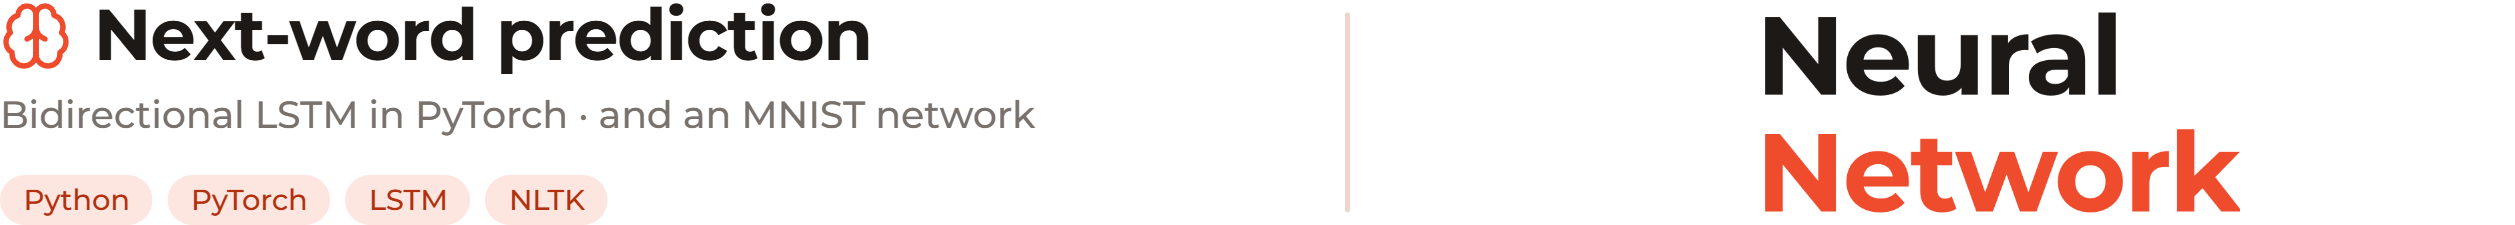
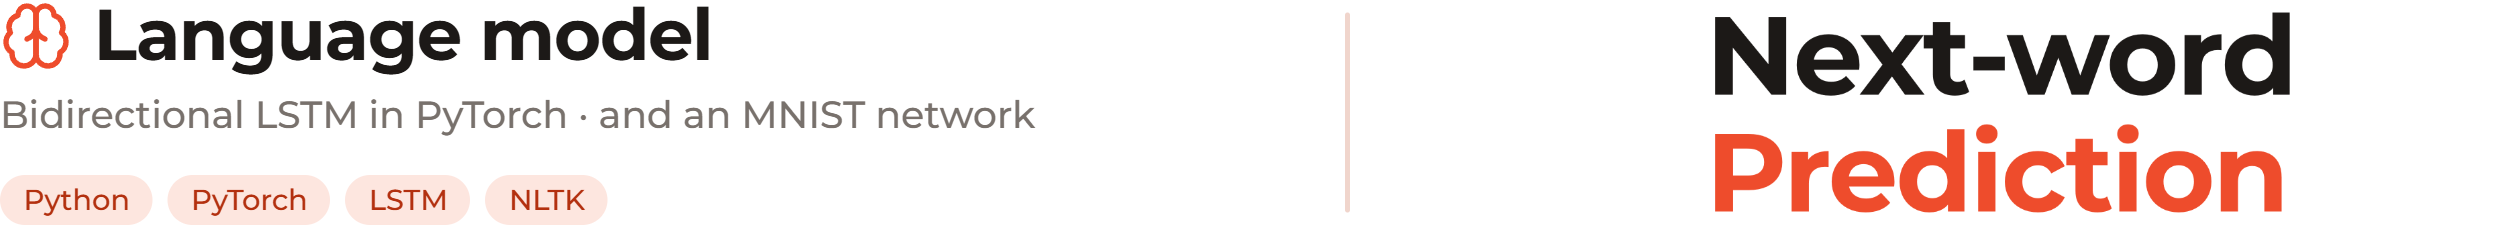
chore: rename the project to next-word-prediction and update its description and topics

Changed region(s): [[0.6823, 0.56, 0.9304, 0.9644], [0.6823, 0.0622, 0.9304, 0.4356], [0.031, 0.0, 0.3722, 0.3422]]

diff --git a/docs/repository.md b/docs/repository.md
@@ -4,13 +4,15 @@ Rzeczy, które ustawia się na GitHubie ręcznie (nie da się ich zapisać w pli
 
 ## Zmiana nazwy
 
-To repozytorium to dawne `Id-Verification-And-Neural-Network`, rozdzielone na dwa. Zmień jego nazwę na GitHubie na `neural-network` (Settings → General → Repository name); GitHub przekieruje stary adres. Lokalnie folder już nazywa się `neural-network`, wystarczy:
+To repozytorium to dawne `Id-Verification-And-Neural-Network` (rozdzielone na dwa), potem `neural-network`. Nazwa `next-word-prediction` mówi, czym jest projekt (standard: `reops/standards/repo-names.md`). Zmień nazwę na GitHubie (Settings → General → Repository name); GitHub przekieruje stare adresy. Lokalnie folder też nazywa się `next-word-prediction`, wystarczy:
 
 ```bash
-git remote set-url origin https://github.com/DamTchorzewski/neural-network.git
+git remote set-url origin https://github.com/DamTchorzewski/next-word-prediction.git
 ```
 
-Skrypty OpenCV przeszły do nowego repozytorium `id-verification`, ćwiczenia `simpleTools` do `tools/projects/python-exercises`. Starsza historia tych plików zostaje tutaj.
+Stare tagi `neural-network`, `rnn`, `torchvision` (i te po poprzednim repozytorium: `opencv`, `ocr`, `tesseract`, `id-verification`, `svm`) usuń ręcznie w About albo komendą `gh repo edit ... --remove-topic`.
+
+Skrypty OpenCV przeszły do repozytorium `id-verification`, ćwiczenia `simpleTools` do `tools/projects/python-exercises`. Starsza historia tych plików zostaje tutaj.
 
 ## Opis i tagi (About)
 
@@ -19,7 +21,7 @@ GitHub: strona repozytorium → ⚙ obok „About” → pola poniżej. Opis ma 
 **Opis (Description):**
 
 ```text
-Next-word prediction in PyTorch: a bidirectional LSTM that predicts the word following a sequence of 5 or 10 words, trained on text corpora preprocessed with NLTK, plus the warm-ups before it (tensors, a small MNIST network). Training plots and four trained models included.
+Next-word prediction model in PyTorch: a bidirectional LSTM suggests the word that follows a sequence of 5 or 10 words, trained on your own texts (stories, sentences, emotions). Includes NLTK preprocessing, training plots and four trained models: a base for autocomplete, writing assistants and chat suggestions.
 ```
 
 **Strona (Website):** puste (skrypty, nie ma strony).
@@ -27,13 +29,13 @@ Next-word prediction in PyTorch: a bidirectional LSTM that predicts the word fol
 **Tagi (Topics):**
 
 ```text
-python pytorch neural-network deep-learning machine-learning mnist lstm rnn nlp next-word-prediction nltk torchvision
+next-word-prediction language-model lstm pytorch nlp text-prediction autocomplete deep-learning machine-learning nltk python mnist
 ```
 
 Z GitHub CLI (`gh`) to samo jedną komendą (stare tagi `opencv`, `ocr`, `tesseract`, `id-verification`, `svm` usuń ręcznie lub `--remove-topic`):
 
 ```bash
-gh repo edit DamTchorzewski/neural-network --description "Next-word prediction in PyTorch: a bidirectional LSTM that predicts the word following a sequence of 5 or 10 words, trained on text corpora preprocessed with NLTK, plus the warm-ups before it (tensors, a small MNIST network). Training plots and four trained models included." --add-topic python,pytorch,neural-network,deep-learning,machine-learning,mnist,lstm,rnn,nlp,next-word-prediction,nltk,torchvision
+gh repo edit DamTchorzewski/next-word-prediction --description "Next-word prediction model in PyTorch: a bidirectional LSTM suggests the word that follows a sequence of 5 or 10 words, trained on your own texts (stories, sentences, emotions). Includes NLTK preprocessing, training plots and four trained models: a base for autocomplete, writing assistants and chat suggestions." --add-topic next-word-prediction,language-model,lstm,pytorch,nlp,text-prediction,autocomplete,deep-learning,machine-learning,nltk,python,mnist
 ```
 
 ## Wielkość repozytorium

diff --git a/README.md b/README.md
@@ -1,7 +1,7 @@
 <p align="center">
   <picture>
     <source media="(prefers-color-scheme: dark)" srcset="docs/images/banner-dark.png">
-    <img src="docs/images/banner-light.png" alt="neural-network: PyTorch learning workspace" width="100%">
+    <img src="docs/images/banner-light.png" alt="next-word-prediction: a bidirectional LSTM that predicts the next word" width="100%">
   </picture>
 </p>
 
@@ -11,10 +11,10 @@
 
 ## About
 
-**neural-network** is a next-word prediction model written in PyTorch: given a sequence of 5 or 10 words, a bidirectional
+**next-word-prediction** is a next-word prediction model written in PyTorch: given a sequence of 5 or 10 words, a bidirectional
 LSTM predicts the word that follows. Around it are the warm-ups that led to it: tensors, a data loader and a small
 fully connected network on MNIST. It was split off from the former `Id-Verification-And-Neural-Network` repository
-(this one is that repository, renamed); the OpenCV scripts now live in `id-verification` and the small Python
+(this one is that repository, renamed to `neural-network` and then to `next-word-prediction`); the OpenCV scripts now live in `id-verification` and the small Python
 exercises in `tools/projects/python-exercises`.
 
 - **Next-word prediction (`pyTorch/advancedTools/`).** A two-layer bidirectional LSTM with an embedding and layer
@@ -65,8 +65,8 @@ All the saved plots are in `pyTorch/path/`: `training_plots_<text>_<length>.png`
 ## Quick start
 
 ```bash
-git clone https://github.com/DamTchorzewski/neural-network.git
-cd neural-network
+git clone https://github.com/DamTchorzewski/next-word-prediction.git
+cd next-word-prediction
 pip install torch torchvision matplotlib scikit-learn nltk tqdm
 python pyTorch/tensorBasics.py
 python pyTorch/neuralNetwork.py     # downloads MNIST to ./data
@@ -128,7 +128,7 @@ merges, Conventional Commits in English. The repository has no workflows.
 | ------------------------------------------ | --------------------------------------------------- |
 | [docs/repository.md](docs/repository.md)   | GitHub description and topics, the rename           |
 
-The README images (`docs/images/`) are regenerated with `tools/readme-images` (profile `neural-network`) from the plots
+The README images (`docs/images/`) are regenerated with `tools/readme-images` (profile `next-word-prediction`) from the plots
 in `pyTorch/path/`; the working shots go to `.scratch/`.
 
 ---
